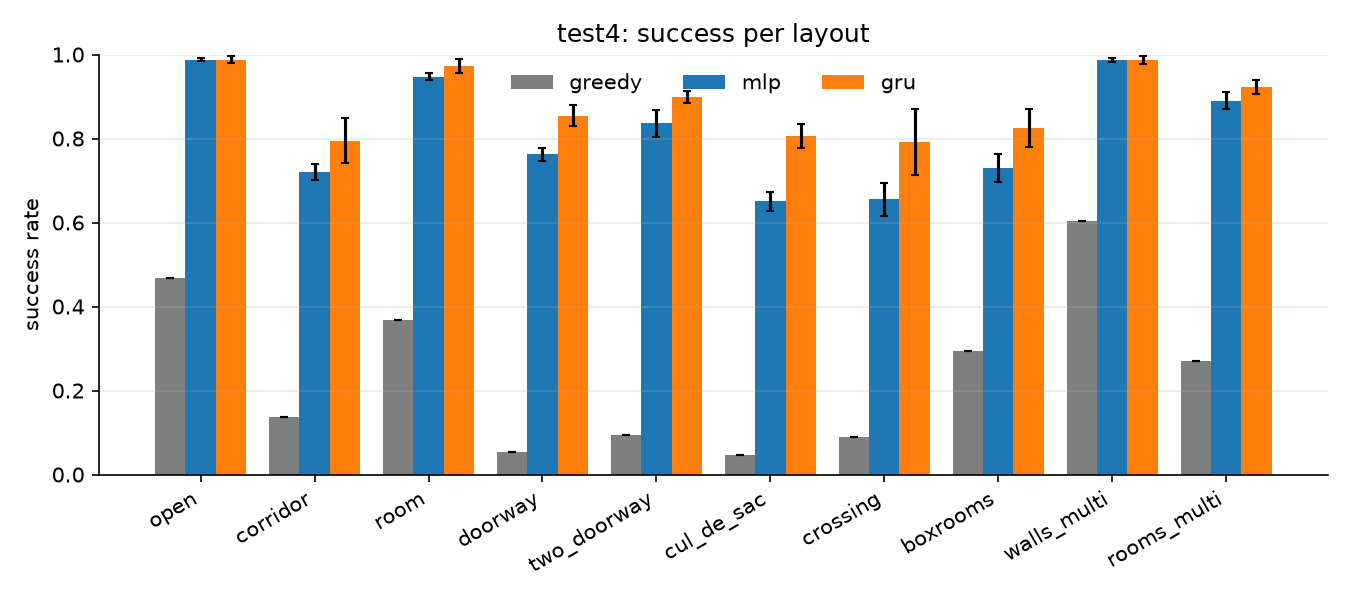
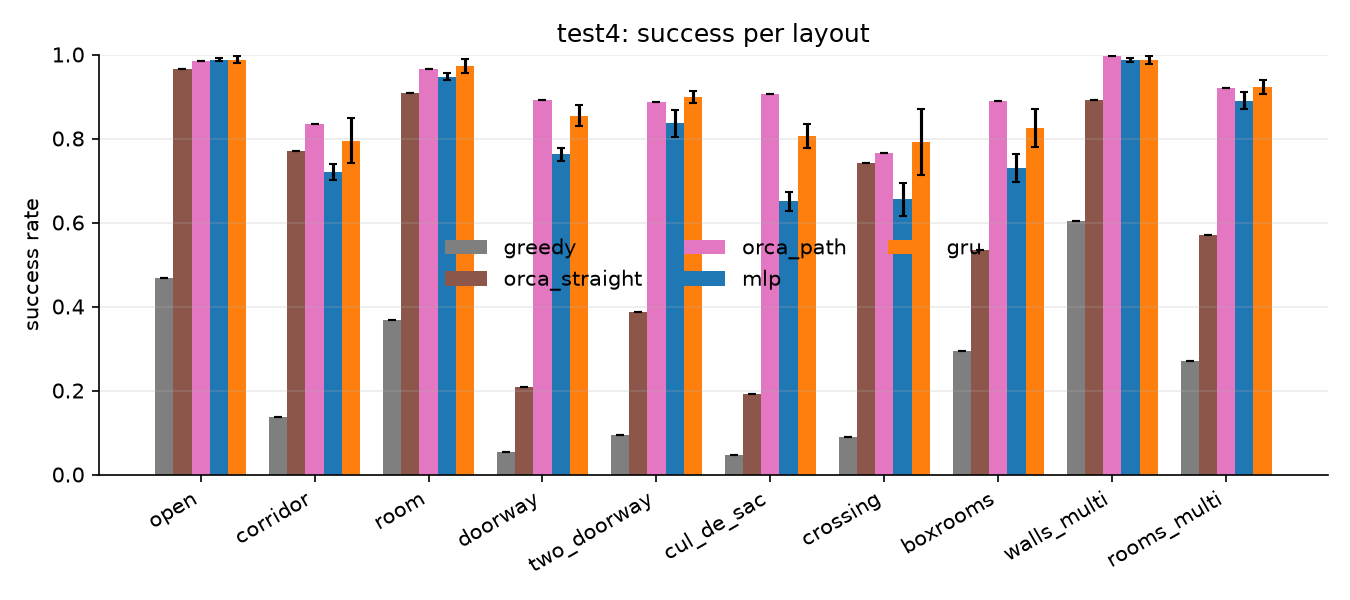
ORCA baseline: orca_straight / orca_path columns in E2 (and E3)

Changed region(s): [[0.1244, 0.09, 0.9333, 0.81]]

diff --git a/policy/results/e3/table_e3_mixed.md b/policy/results/e3/table_e3_mixed.md
@@ -1,49 +1,49 @@
 # E3: test_mixed
 
-**Success rate** (`test_mixed`, mean ± std over seeds; runs: greedy 1, e2_gru 5, e3_timeout 3, e3_geo 3, e3_both 3)
+**Success rate** (`test_mixed`, mean ± std over seeds; runs: greedy 1, orca_straight 1, orca_path 1, e2_gru 5, e3_timeout 3, e3_geo 3, e3_both 3)
 
-| layout | greedy | e2_gru | e3_timeout | e3_geo | e3_both |
-|---|---|---|---|---|---|
-| open | 0.457 | 0.988 ± 0.006 | 0.993 ± 0.002 | 0.996 ± 0.003 | 0.992 ± 0.003 |
-| corridor | 0.181 | 0.790 ± 0.043 | 0.831 ± 0.012 | 0.804 ± 0.010 | 0.815 ± 0.013 |
-| room | 0.362 | 0.936 ± 0.022 | 0.961 ± 0.006 | 0.960 ± 0.008 | 0.959 ± 0.008 |
-| doorway | 0.046 | 0.808 ± 0.031 | 0.817 ± 0.024 | 0.827 ± 0.003 | 0.833 ± 0.008 |
-| two_doorway | 0.079 | 0.855 ± 0.024 | 0.873 ± 0.027 | 0.884 ± 0.009 | 0.873 ± 0.016 |
-| cul_de_sac | 0.062 | 0.799 ± 0.019 | 0.809 ± 0.016 | 0.821 ± 0.033 | 0.805 ± 0.018 |
-| crossing | 0.091 | 0.749 ± 0.072 | 0.807 ± 0.048 | 0.808 ± 0.046 | 0.794 ± 0.056 |
-| boxrooms | 0.270 | 0.849 ± 0.047 | 0.872 ± 0.026 | 0.872 ± 0.027 | 0.882 ± 0.008 |
-| walls_multi | 0.612 | 0.974 ± 0.020 | 0.983 ± 0.004 | 0.981 ± 0.002 | 0.977 ± 0.003 |
-| rooms_multi | 0.299 | 0.923 ± 0.040 | 0.934 ± 0.006 | 0.918 ± 0.013 | 0.944 ± 0.016 |
-| **overall** | 0.246 | 0.867 ± 0.029 | 0.888 ± 0.015 | 0.887 ± 0.010 | 0.887 ± 0.013 |
+| layout | greedy | orca_straight | orca_path | e2_gru | e3_timeout | e3_geo | e3_both |
+|---|---|---|---|---|---|---|---|
+| open | 0.457 | 0.956 | 0.958 | 0.988 ± 0.006 | 0.993 ± 0.002 | 0.996 ± 0.003 | 0.992 ± 0.003 |
+| corridor | 0.181 | 0.725 | 0.845 | 0.790 ± 0.043 | 0.831 ± 0.012 | 0.804 ± 0.010 | 0.815 ± 0.013 |
+| room | 0.362 | 0.904 | 0.921 | 0.936 ± 0.022 | 0.961 ± 0.006 | 0.960 ± 0.008 | 0.959 ± 0.008 |
+| doorway | 0.046 | 0.216 | 0.873 | 0.808 ± 0.031 | 0.817 ± 0.024 | 0.827 ± 0.003 | 0.833 ± 0.008 |
+| two_doorway | 0.079 | 0.356 | 0.895 | 0.855 ± 0.024 | 0.873 ± 0.027 | 0.884 ± 0.009 | 0.873 ± 0.016 |
+| cul_de_sac | 0.062 | 0.212 | 0.912 | 0.799 ± 0.019 | 0.809 ± 0.016 | 0.821 ± 0.033 | 0.805 ± 0.018 |
+| crossing | 0.091 | 0.651 | 0.682 | 0.749 ± 0.072 | 0.807 ± 0.048 | 0.808 ± 0.046 | 0.794 ± 0.056 |
+| boxrooms | 0.270 | 0.545 | 0.872 | 0.849 ± 0.047 | 0.872 ± 0.026 | 0.872 ± 0.027 | 0.882 ± 0.008 |
+| walls_multi | 0.612 | 0.875 | 0.981 | 0.974 ± 0.020 | 0.983 ± 0.004 | 0.981 ± 0.002 | 0.977 ± 0.003 |
+| rooms_multi | 0.299 | 0.555 | 0.909 | 0.923 ± 0.040 | 0.934 ± 0.006 | 0.918 ± 0.013 | 0.944 ± 0.016 |
+| **overall** | 0.246 | 0.599 | 0.885 | 0.867 ± 0.029 | 0.888 ± 0.015 | 0.887 ± 0.010 | 0.887 ± 0.013 |
 
-**Collision rate** (`test_mixed`, mean ± std over seeds; runs: greedy 1, e2_gru 5, e3_timeout 3, e3_geo 3, e3_both 3)
+**Collision rate** (`test_mixed`, mean ± std over seeds; runs: greedy 1, orca_straight 1, orca_path 1, e2_gru 5, e3_timeout 3, e3_geo 3, e3_both 3)
 
-| layout | greedy | e2_gru | e3_timeout | e3_geo | e3_both |
-|---|---|---|---|---|---|
-| open | 0.543 | 0.010 ± 0.007 | 0.005 ± 0.003 | 0.004 ± 0.003 | 0.008 ± 0.003 |
-| corridor | 0.819 | 0.169 ± 0.047 | 0.147 ± 0.014 | 0.142 ± 0.016 | 0.154 ± 0.003 |
-| room | 0.638 | 0.060 ± 0.021 | 0.034 ± 0.011 | 0.038 ± 0.007 | 0.039 ± 0.007 |
-| doorway | 0.954 | 0.116 ± 0.040 | 0.087 ± 0.026 | 0.088 ± 0.003 | 0.114 ± 0.006 |
-| two_doorway | 0.921 | 0.108 ± 0.025 | 0.087 ± 0.030 | 0.078 ± 0.010 | 0.098 ± 0.020 |
-| cul_de_sac | 0.938 | 0.096 ± 0.028 | 0.094 ± 0.050 | 0.070 ± 0.028 | 0.096 ± 0.019 |
-| crossing | 0.909 | 0.201 ± 0.056 | 0.155 ± 0.065 | 0.147 ± 0.030 | 0.186 ± 0.052 |
-| boxrooms | 0.730 | 0.111 ± 0.042 | 0.088 ± 0.027 | 0.096 ± 0.011 | 0.092 ± 0.014 |
-| walls_multi | 0.388 | 0.026 ± 0.020 | 0.016 ± 0.004 | 0.019 ± 0.002 | 0.018 ± 0.003 |
-| rooms_multi | 0.701 | 0.066 ± 0.040 | 0.055 ± 0.005 | 0.068 ± 0.009 | 0.046 ± 0.015 |
-| **overall** | 0.754 | 0.096 ± 0.028 | 0.077 ± 0.023 | 0.075 ± 0.003 | 0.085 ± 0.012 |
+| layout | greedy | orca_straight | orca_path | e2_gru | e3_timeout | e3_geo | e3_both |
+|---|---|---|---|---|---|---|---|
+| open | 0.543 | 0.019 | 0.027 | 0.010 ± 0.007 | 0.005 ± 0.003 | 0.004 ± 0.003 | 0.008 ± 0.003 |
+| corridor | 0.819 | 0.121 | 0.143 | 0.169 ± 0.047 | 0.147 ± 0.014 | 0.142 ± 0.016 | 0.154 ± 0.003 |
+| room | 0.638 | 0.038 | 0.044 | 0.060 ± 0.021 | 0.034 ± 0.011 | 0.038 ± 0.007 | 0.039 ± 0.007 |
+| doorway | 0.954 | 0.588 | 0.120 | 0.116 ± 0.040 | 0.087 ± 0.026 | 0.088 ± 0.003 | 0.114 ± 0.006 |
+| two_doorway | 0.921 | 0.400 | 0.086 | 0.108 ± 0.025 | 0.087 ± 0.030 | 0.078 ± 0.010 | 0.098 ± 0.020 |
+| cul_de_sac | 0.938 | 0.452 | 0.082 | 0.096 ± 0.028 | 0.094 ± 0.050 | 0.070 ± 0.028 | 0.096 ± 0.019 |
+| crossing | 0.909 | 0.206 | 0.266 | 0.201 ± 0.056 | 0.155 ± 0.065 | 0.147 ± 0.030 | 0.186 ± 0.052 |
+| boxrooms | 0.730 | 0.383 | 0.128 | 0.111 ± 0.042 | 0.088 ± 0.027 | 0.096 ± 0.011 | 0.092 ± 0.014 |
+| walls_multi | 0.388 | 0.119 | 0.019 | 0.026 ± 0.020 | 0.016 ± 0.004 | 0.019 ± 0.002 | 0.018 ± 0.003 |
+| rooms_multi | 0.701 | 0.418 | 0.086 | 0.066 ± 0.040 | 0.055 ± 0.005 | 0.068 ± 0.009 | 0.046 ± 0.015 |
+| **overall** | 0.754 | 0.274 | 0.100 | 0.096 ± 0.028 | 0.077 ± 0.023 | 0.075 ± 0.003 | 0.085 ± 0.012 |
 
-**Timeout rate** (`test_mixed`, mean ± std over seeds; runs: greedy 1, e2_gru 5, e3_timeout 3, e3_geo 3, e3_both 3)
+**Timeout rate** (`test_mixed`, mean ± std over seeds; runs: greedy 1, orca_straight 1, orca_path 1, e2_gru 5, e3_timeout 3, e3_geo 3, e3_both 3)
 
-| layout | greedy | e2_gru | e3_timeout | e3_geo | e3_both |
-|---|---|---|---|---|---|
-| open | 0.000 | 0.002 ± 0.002 | 0.002 ± 0.001 | 0.000 ± 0.000 | 0.000 ± 0.000 |
-| corridor | 0.000 | 0.041 ± 0.020 | 0.023 ± 0.008 | 0.053 ± 0.011 | 0.031 ± 0.013 |
-| room | 0.000 | 0.003 ± 0.003 | 0.005 ± 0.005 | 0.001 ± 0.001 | 0.001 ± 0.001 |
-| doorway | 0.000 | 0.076 ± 0.018 | 0.096 ± 0.017 | 0.085 ± 0.006 | 0.053 ± 0.005 |
-| two_doorway | 0.000 | 0.037 ± 0.008 | 0.040 ± 0.004 | 0.038 ± 0.012 | 0.029 ± 0.008 |
-| cul_de_sac | 0.000 | 0.106 ± 0.022 | 0.098 ± 0.036 | 0.109 ± 0.019 | 0.099 ± 0.002 |
-| crossing | 0.000 | 0.050 ± 0.031 | 0.037 ± 0.021 | 0.045 ± 0.017 | 0.020 ± 0.005 |
-| boxrooms | 0.000 | 0.040 ± 0.013 | 0.040 ± 0.004 | 0.032 ± 0.017 | 0.025 ± 0.011 |
-| walls_multi | 0.000 | 0.000 ± 0.000 | 0.001 ± 0.001 | 0.000 ± 0.000 | 0.005 ± 0.000 |
-| rooms_multi | 0.000 | 0.011 ± 0.004 | 0.010 ± 0.002 | 0.014 ± 0.005 | 0.011 ± 0.001 |
-| **overall** | 0.000 | 0.037 ± 0.009 | 0.035 ± 0.007 | 0.038 ± 0.007 | 0.027 ± 0.002 |
+| layout | greedy | orca_straight | orca_path | e2_gru | e3_timeout | e3_geo | e3_both |
+|---|---|---|---|---|---|---|---|
+| open | 0.000 | 0.025 | 0.015 | 0.002 ± 0.002 | 0.002 ± 0.001 | 0.000 ± 0.000 | 0.000 ± 0.000 |
+| corridor | 0.000 | 0.154 | 0.012 | 0.041 ± 0.020 | 0.023 ± 0.008 | 0.053 ± 0.011 | 0.031 ± 0.013 |
+| room | 0.000 | 0.059 | 0.035 | 0.003 ± 0.003 | 0.005 ± 0.005 | 0.001 ± 0.001 | 0.001 ± 0.001 |
+| doorway | 0.000 | 0.196 | 0.007 | 0.076 ± 0.018 | 0.096 ± 0.017 | 0.085 ± 0.006 | 0.053 ± 0.005 |
+| two_doorway | 0.000 | 0.245 | 0.019 | 0.037 ± 0.008 | 0.040 ± 0.004 | 0.038 ± 0.012 | 0.029 ± 0.008 |
+| cul_de_sac | 0.000 | 0.336 | 0.006 | 0.106 ± 0.022 | 0.098 ± 0.036 | 0.109 ± 0.019 | 0.099 ± 0.002 |
+| crossing | 0.000 | 0.143 | 0.051 | 0.050 ± 0.031 | 0.037 ± 0.021 | 0.045 ± 0.017 | 0.020 ± 0.005 |
+| boxrooms | 0.000 | 0.072 | 0.000 | 0.040 ± 0.013 | 0.040 ± 0.004 | 0.032 ± 0.017 | 0.025 ± 0.011 |
+| walls_multi | 0.000 | 0.006 | 0.000 | 0.000 ± 0.000 | 0.001 ± 0.001 | 0.000 ± 0.000 | 0.005 ± 0.000 |
+| rooms_multi | 0.000 | 0.027 | 0.005 | 0.011 ± 0.004 | 0.010 ± 0.002 | 0.014 ± 0.005 | 0.011 ± 0.001 |
+| **overall** | 0.000 | 0.126 | 0.015 | 0.037 ± 0.009 | 0.035 ± 0.007 | 0.038 ± 0.007 | 0.027 ± 0.002 |

diff --git a/policy/results/e3/table_e3.md b/policy/results/e3/table_e3.md
@@ -1,49 +1,49 @@
 # E3: test4
 
-**Success rate** (`test4`, mean ± std over seeds; runs: greedy 1, e2_gru 5, e3_timeout 3, e3_geo 3, e3_both 3)
+**Success rate** (`test4`, mean ± std over seeds; runs: greedy 1, orca_straight 1, orca_path 1, e2_gru 5, e3_timeout 3, e3_geo 3, e3_both 3)
 
-| layout | greedy | e2_gru | e3_timeout | e3_geo | e3_both |
-|---|---|---|---|---|---|
-| open | 0.468 | 0.988 ± 0.009 | 0.992 ± 0.008 | 0.998 ± 0.002 | 0.994 ± 0.003 |
-| corridor | 0.138 | 0.795 ± 0.054 | 0.821 ± 0.022 | 0.827 ± 0.010 | 0.802 ± 0.011 |
-| room | 0.367 | 0.972 ± 0.017 | 0.974 ± 0.008 | 0.980 ± 0.004 | 0.979 ± 0.012 |
-| doorway | 0.052 | 0.854 ± 0.025 | 0.871 ± 0.012 | 0.868 ± 0.019 | 0.878 ± 0.025 |
-| two_doorway | 0.095 | 0.898 ± 0.015 | 0.896 ± 0.024 | 0.899 ± 0.008 | 0.902 ± 0.020 |
-| cul_de_sac | 0.048 | 0.806 ± 0.028 | 0.792 ± 0.037 | 0.843 ± 0.037 | 0.808 ± 0.029 |
-| crossing | 0.090 | 0.791 ± 0.078 | 0.833 ± 0.024 | 0.815 ± 0.013 | 0.799 ± 0.032 |
-| boxrooms | 0.295 | 0.825 ± 0.045 | 0.829 ± 0.024 | 0.856 ± 0.025 | 0.842 ± 0.026 |
-| walls_multi | 0.603 | 0.987 ± 0.009 | 0.989 ± 0.005 | 0.989 ± 0.002 | 0.987 ± 0.004 |
-| rooms_multi | 0.270 | 0.923 ± 0.017 | 0.941 ± 0.012 | 0.940 ± 0.009 | 0.937 ± 0.016 |
-| **overall** | 0.242 | 0.884 ± 0.027 | 0.894 ± 0.015 | 0.902 ± 0.011 | 0.893 ± 0.013 |
+| layout | greedy | orca_straight | orca_path | e2_gru | e3_timeout | e3_geo | e3_both |
+|---|---|---|---|---|---|---|---|
+| open | 0.468 | 0.965 | 0.985 | 0.988 ± 0.009 | 0.992 ± 0.008 | 0.998 ± 0.002 | 0.994 ± 0.003 |
+| corridor | 0.138 | 0.770 | 0.835 | 0.795 ± 0.054 | 0.821 ± 0.022 | 0.827 ± 0.010 | 0.802 ± 0.011 |
+| room | 0.367 | 0.907 | 0.965 | 0.972 ± 0.017 | 0.974 ± 0.008 | 0.980 ± 0.004 | 0.979 ± 0.012 |
+| doorway | 0.052 | 0.207 | 0.892 | 0.854 ± 0.025 | 0.871 ± 0.012 | 0.868 ± 0.019 | 0.878 ± 0.025 |
+| two_doorway | 0.095 | 0.388 | 0.887 | 0.898 ± 0.015 | 0.896 ± 0.024 | 0.899 ± 0.008 | 0.902 ± 0.020 |
+| cul_de_sac | 0.048 | 0.193 | 0.905 | 0.806 ± 0.028 | 0.792 ± 0.037 | 0.843 ± 0.037 | 0.808 ± 0.029 |
+| crossing | 0.090 | 0.743 | 0.765 | 0.791 ± 0.078 | 0.833 ± 0.024 | 0.815 ± 0.013 | 0.799 ± 0.032 |
+| boxrooms | 0.295 | 0.535 | 0.890 | 0.825 ± 0.045 | 0.829 ± 0.024 | 0.856 ± 0.025 | 0.842 ± 0.026 |
+| walls_multi | 0.603 | 0.892 | 0.998 | 0.987 ± 0.009 | 0.989 ± 0.005 | 0.989 ± 0.002 | 0.987 ± 0.004 |
+| rooms_multi | 0.270 | 0.570 | 0.920 | 0.923 ± 0.017 | 0.941 ± 0.012 | 0.940 ± 0.009 | 0.937 ± 0.016 |
+| **overall** | 0.242 | 0.617 | 0.904 | 0.884 ± 0.027 | 0.894 ± 0.015 | 0.902 ± 0.011 | 0.893 ± 0.013 |
 
-**Collision rate** (`test4`, mean ± std over seeds; runs: greedy 1, e2_gru 5, e3_timeout 3, e3_geo 3, e3_both 3)
+**Collision rate** (`test4`, mean ± std over seeds; runs: greedy 1, orca_straight 1, orca_path 1, e2_gru 5, e3_timeout 3, e3_geo 3, e3_both 3)
 
-| layout | greedy | e2_gru | e3_timeout | e3_geo | e3_both |
-|---|---|---|---|---|---|
-| open | 0.532 | 0.012 ± 0.009 | 0.007 ± 0.009 | 0.002 ± 0.002 | 0.006 ± 0.003 |
-| corridor | 0.863 | 0.155 ± 0.046 | 0.146 ± 0.033 | 0.122 ± 0.004 | 0.161 ± 0.020 |
-| room | 0.632 | 0.025 ± 0.016 | 0.022 ± 0.010 | 0.019 ± 0.003 | 0.018 ± 0.009 |
-| doorway | 0.948 | 0.088 ± 0.032 | 0.073 ± 0.022 | 0.080 ± 0.020 | 0.089 ± 0.028 |
-| two_doorway | 0.905 | 0.067 ± 0.014 | 0.067 ± 0.025 | 0.062 ± 0.009 | 0.075 ± 0.029 |
-| cul_de_sac | 0.953 | 0.097 ± 0.044 | 0.097 ± 0.053 | 0.062 ± 0.015 | 0.096 ± 0.028 |
-| crossing | 0.910 | 0.161 ± 0.067 | 0.132 ± 0.034 | 0.128 ± 0.006 | 0.165 ± 0.024 |
-| boxrooms | 0.705 | 0.131 ± 0.039 | 0.137 ± 0.025 | 0.113 ± 0.019 | 0.129 ± 0.014 |
-| walls_multi | 0.398 | 0.011 ± 0.008 | 0.008 ± 0.007 | 0.008 ± 0.003 | 0.010 ± 0.004 |
-| rooms_multi | 0.730 | 0.050 ± 0.019 | 0.023 ± 0.008 | 0.035 ± 0.009 | 0.032 ± 0.015 |
-| **overall** | 0.757 | 0.080 ± 0.026 | 0.071 ± 0.021 | 0.063 ± 0.007 | 0.078 ± 0.013 |
+| layout | greedy | orca_straight | orca_path | e2_gru | e3_timeout | e3_geo | e3_both |
+|---|---|---|---|---|---|---|---|
+| open | 0.532 | 0.020 | 0.010 | 0.012 ± 0.009 | 0.007 ± 0.009 | 0.002 ± 0.002 | 0.006 ± 0.003 |
+| corridor | 0.863 | 0.072 | 0.133 | 0.155 ± 0.046 | 0.146 ± 0.033 | 0.122 ± 0.004 | 0.161 ± 0.020 |
+| room | 0.632 | 0.040 | 0.013 | 0.025 ± 0.016 | 0.022 ± 0.010 | 0.019 ± 0.003 | 0.018 ± 0.009 |
+| doorway | 0.948 | 0.600 | 0.107 | 0.088 ± 0.032 | 0.073 ± 0.022 | 0.080 ± 0.020 | 0.089 ± 0.028 |
+| two_doorway | 0.905 | 0.395 | 0.083 | 0.067 ± 0.014 | 0.067 ± 0.025 | 0.062 ± 0.009 | 0.075 ± 0.029 |
+| cul_de_sac | 0.953 | 0.472 | 0.080 | 0.097 ± 0.044 | 0.097 ± 0.053 | 0.062 ± 0.015 | 0.096 ± 0.028 |
+| crossing | 0.910 | 0.120 | 0.193 | 0.161 ± 0.067 | 0.132 ± 0.034 | 0.128 ± 0.006 | 0.165 ± 0.024 |
+| boxrooms | 0.705 | 0.360 | 0.098 | 0.131 ± 0.039 | 0.137 ± 0.025 | 0.113 ± 0.019 | 0.129 ± 0.014 |
+| walls_multi | 0.398 | 0.095 | 0.003 | 0.011 ± 0.008 | 0.008 ± 0.007 | 0.008 ± 0.003 | 0.010 ± 0.004 |
+| rooms_multi | 0.730 | 0.407 | 0.075 | 0.050 ± 0.019 | 0.023 ± 0.008 | 0.035 ± 0.009 | 0.032 ± 0.015 |
+| **overall** | 0.757 | 0.258 | 0.079 | 0.080 ± 0.026 | 0.071 ± 0.021 | 0.063 ± 0.007 | 0.078 ± 0.013 |
 
-**Timeout rate** (`test4`, mean ± std over seeds; runs: greedy 1, e2_gru 5, e3_timeout 3, e3_geo 3, e3_both 3)
+**Timeout rate** (`test4`, mean ± std over seeds; runs: greedy 1, orca_straight 1, orca_path 1, e2_gru 5, e3_timeout 3, e3_geo 3, e3_both 3)
 
-| layout | greedy | e2_gru | e3_timeout | e3_geo | e3_both |
-|---|---|---|---|---|---|
-| open | 0.000 | 0.000 ± 0.000 | 0.002 ± 0.002 | 0.000 ± 0.000 | 0.000 ± 0.000 |
-| corridor | 0.000 | 0.051 ± 0.022 | 0.033 ± 0.011 | 0.052 ± 0.010 | 0.037 ± 0.012 |
-| room | 0.000 | 0.004 ± 0.002 | 0.004 ± 0.002 | 0.001 ± 0.001 | 0.003 ± 0.004 |
-| doorway | 0.000 | 0.057 ± 0.014 | 0.056 ± 0.010 | 0.052 ± 0.002 | 0.033 ± 0.005 |
-| two_doorway | 0.000 | 0.034 ± 0.007 | 0.037 ± 0.006 | 0.038 ± 0.001 | 0.023 ± 0.009 |
-| cul_de_sac | 0.000 | 0.097 ± 0.024 | 0.111 ± 0.019 | 0.094 ± 0.032 | 0.096 ± 0.004 |
-| crossing | 0.000 | 0.047 ± 0.021 | 0.036 ± 0.016 | 0.057 ± 0.011 | 0.036 ± 0.008 |
-| boxrooms | 0.000 | 0.043 ± 0.019 | 0.034 ± 0.002 | 0.030 ± 0.015 | 0.029 ± 0.012 |
-| walls_multi | 0.000 | 0.002 ± 0.001 | 0.003 ± 0.003 | 0.003 ± 0.002 | 0.003 ± 0.000 |
-| rooms_multi | 0.000 | 0.027 ± 0.004 | 0.036 ± 0.010 | 0.025 ± 0.004 | 0.032 ± 0.008 |
-| **overall** | 0.000 | 0.036 ± 0.008 | 0.035 ± 0.006 | 0.035 ± 0.005 | 0.029 ± 0.001 |
+| layout | greedy | orca_straight | orca_path | e2_gru | e3_timeout | e3_geo | e3_both |
+|---|---|---|---|---|---|---|---|
+| open | 0.000 | 0.015 | 0.005 | 0.000 ± 0.000 | 0.002 ± 0.002 | 0.000 ± 0.000 | 0.000 ± 0.000 |
+| corridor | 0.000 | 0.158 | 0.033 | 0.051 ± 0.022 | 0.033 ± 0.011 | 0.052 ± 0.010 | 0.037 ± 0.012 |
+| room | 0.000 | 0.052 | 0.022 | 0.004 ± 0.002 | 0.004 ± 0.002 | 0.001 ± 0.001 | 0.003 ± 0.004 |
+| doorway | 0.000 | 0.193 | 0.000 | 0.057 ± 0.014 | 0.056 ± 0.010 | 0.052 ± 0.002 | 0.033 ± 0.005 |
+| two_doorway | 0.000 | 0.217 | 0.030 | 0.034 ± 0.007 | 0.037 ± 0.006 | 0.038 ± 0.001 | 0.023 ± 0.009 |
+| cul_de_sac | 0.000 | 0.335 | 0.015 | 0.097 ± 0.024 | 0.111 ± 0.019 | 0.094 ± 0.032 | 0.096 ± 0.004 |
+| crossing | 0.000 | 0.138 | 0.043 | 0.047 ± 0.021 | 0.036 ± 0.016 | 0.057 ± 0.011 | 0.036 ± 0.008 |
+| boxrooms | 0.000 | 0.105 | 0.013 | 0.043 ± 0.019 | 0.034 ± 0.002 | 0.030 ± 0.015 | 0.029 ± 0.012 |
+| walls_multi | 0.000 | 0.013 | 0.000 | 0.002 ± 0.001 | 0.003 ± 0.003 | 0.003 ± 0.002 | 0.003 ± 0.000 |
+| rooms_multi | 0.000 | 0.022 | 0.005 | 0.027 ± 0.004 | 0.036 ± 0.010 | 0.025 ± 0.004 | 0.032 ± 0.008 |
+| **overall** | 0.000 | 0.125 | 0.017 | 0.036 ± 0.008 | 0.035 ± 0.006 | 0.035 ± 0.005 | 0.029 ± 0.001 |

diff --git a/policy/results/e2/table_e2_mixed.md b/policy/results/e2/table_e2_mixed.md
@@ -1,33 +1,33 @@
 # E2: test_mixed
 
-**Success rate** (`test_mixed`, mean ± std over seeds; runs: greedy 1, mlp 5, gru 5)
+**Success rate** (`test_mixed`, mean ± std over seeds; runs: greedy 1, orca_straight 1, orca_path 1, mlp 5, gru 5)
 
-| layout | greedy | mlp | gru |
-|---|---|---|---|
-| open | 0.457 | 0.986 ± 0.006 | 0.988 ± 0.006 |
-| corridor | 0.181 | 0.729 ± 0.021 | 0.790 ± 0.043 |
-| room | 0.362 | 0.925 ± 0.010 | 0.936 ± 0.022 |
-| doorway | 0.046 | 0.707 ± 0.022 | 0.808 ± 0.031 |
-| two_doorway | 0.079 | 0.797 ± 0.021 | 0.855 ± 0.024 |
-| cul_de_sac | 0.062 | 0.642 ± 0.031 | 0.799 ± 0.019 |
-| crossing | 0.091 | 0.608 ± 0.042 | 0.749 ± 0.072 |
-| boxrooms | 0.270 | 0.763 ± 0.022 | 0.849 ± 0.047 |
-| walls_multi | 0.612 | 0.963 ± 0.007 | 0.974 ± 0.020 |
-| rooms_multi | 0.299 | 0.882 ± 0.021 | 0.923 ± 0.040 |
-| **overall** | 0.246 | 0.800 ± 0.011 | 0.867 ± 0.029 |
+| layout | greedy | orca_straight | orca_path | mlp | gru |
+|---|---|---|---|---|---|
+| open | 0.457 | 0.956 | 0.958 | 0.986 ± 0.006 | 0.988 ± 0.006 |
+| corridor | 0.181 | 0.725 | 0.845 | 0.729 ± 0.021 | 0.790 ± 0.043 |
+| room | 0.362 | 0.904 | 0.921 | 0.925 ± 0.010 | 0.936 ± 0.022 |
+| doorway | 0.046 | 0.216 | 0.873 | 0.707 ± 0.022 | 0.808 ± 0.031 |
+| two_doorway | 0.079 | 0.356 | 0.895 | 0.797 ± 0.021 | 0.855 ± 0.024 |
+| cul_de_sac | 0.062 | 0.212 | 0.912 | 0.642 ± 0.031 | 0.799 ± 0.019 |
+| crossing | 0.091 | 0.651 | 0.682 | 0.608 ± 0.042 | 0.749 ± 0.072 |
+| boxrooms | 0.270 | 0.545 | 0.872 | 0.763 ± 0.022 | 0.849 ± 0.047 |
+| walls_multi | 0.612 | 0.875 | 0.981 | 0.963 ± 0.007 | 0.974 ± 0.020 |
+| rooms_multi | 0.299 | 0.555 | 0.909 | 0.882 ± 0.021 | 0.923 ± 0.040 |
+| **overall** | 0.246 | 0.599 | 0.885 | 0.800 ± 0.011 | 0.867 ± 0.029 |
 
-**Collision rate** (`test_mixed`, mean ± std over seeds; runs: greedy 1, mlp 5, gru 5)
+**Collision rate** (`test_mixed`, mean ± std over seeds; runs: greedy 1, orca_straight 1, orca_path 1, mlp 5, gru 5)
 
-| layout | greedy | mlp | gru |
-|---|---|---|---|
-| open | 0.543 | 0.011 ± 0.006 | 0.010 ± 0.007 |
-| corridor | 0.819 | 0.213 ± 0.029 | 0.169 ± 0.047 |
-| room | 0.638 | 0.056 ± 0.016 | 0.060 ± 0.021 |
-| doorway | 0.954 | 0.101 ± 0.022 | 0.116 ± 0.040 |
-| two_doorway | 0.921 | 0.101 ± 0.016 | 0.108 ± 0.025 |
-| cul_de_sac | 0.938 | 0.125 ± 0.033 | 0.096 ± 0.028 |
-| crossing | 0.909 | 0.256 ± 0.065 | 0.201 ± 0.056 |
-| boxrooms | 0.730 | 0.133 ± 0.026 | 0.111 ± 0.042 |
-| walls_multi | 0.388 | 0.026 ± 0.008 | 0.026 ± 0.020 |
-| rooms_multi | 0.701 | 0.066 ± 0.018 | 0.066 ± 0.040 |
-| **overall** | 0.754 | 0.109 ± 0.020 | 0.096 ± 0.028 |
+| layout | greedy | orca_straight | orca_path | mlp | gru |
+|---|---|---|---|---|---|
+| open | 0.543 | 0.019 | 0.027 | 0.011 ± 0.006 | 0.010 ± 0.007 |
+| corridor | 0.819 | 0.121 | 0.143 | 0.213 ± 0.029 | 0.169 ± 0.047 |
+| room | 0.638 | 0.038 | 0.044 | 0.056 ± 0.016 | 0.060 ± 0.021 |
+| doorway | 0.954 | 0.588 | 0.120 | 0.101 ± 0.022 | 0.116 ± 0.040 |
+| two_doorway | 0.921 | 0.400 | 0.086 | 0.101 ± 0.016 | 0.108 ± 0.025 |
+| cul_de_sac | 0.938 | 0.452 | 0.082 | 0.125 ± 0.033 | 0.096 ± 0.028 |
+| crossing | 0.909 | 0.206 | 0.266 | 0.256 ± 0.065 | 0.201 ± 0.056 |
+| boxrooms | 0.730 | 0.383 | 0.128 | 0.133 ± 0.026 | 0.111 ± 0.042 |
+| walls_multi | 0.388 | 0.119 | 0.019 | 0.026 ± 0.008 | 0.026 ± 0.020 |
+| rooms_multi | 0.701 | 0.418 | 0.086 | 0.066 ± 0.018 | 0.066 ± 0.040 |
+| **overall** | 0.754 | 0.274 | 0.100 | 0.109 ± 0.020 | 0.096 ± 0.028 |

diff --git a/policy/results/e2/table_e2.md b/policy/results/e2/table_e2.md
@@ -1,33 +1,33 @@
 # E2: test4
 
-**Success rate** (`test4`, mean ± std over seeds; runs: greedy 1, mlp 5, gru 5)
+**Success rate** (`test4`, mean ± std over seeds; runs: greedy 1, orca_straight 1, orca_path 1, mlp 5, gru 5)
 
-| layout | greedy | mlp | gru |
-|---|---|---|---|
-| open | 0.468 | 0.988 ± 0.003 | 0.988 ± 0.009 |
-| corridor | 0.138 | 0.720 ± 0.019 | 0.795 ± 0.054 |
-| room | 0.367 | 0.947 ± 0.008 | 0.972 ± 0.017 |
-| doorway | 0.052 | 0.762 ± 0.016 | 0.854 ± 0.025 |
-| two_doorway | 0.095 | 0.837 ± 0.032 | 0.898 ± 0.015 |
-| cul_de_sac | 0.048 | 0.651 ± 0.022 | 0.806 ± 0.028 |
-| crossing | 0.090 | 0.655 ± 0.039 | 0.791 ± 0.078 |
-| boxrooms | 0.295 | 0.730 ± 0.034 | 0.825 ± 0.045 |
-| walls_multi | 0.603 | 0.987 ± 0.005 | 0.987 ± 0.009 |
-| rooms_multi | 0.270 | 0.890 ± 0.021 | 0.923 ± 0.017 |
-| **overall** | 0.242 | 0.817 ± 0.006 | 0.884 ± 0.027 |
+| layout | greedy | orca_straight | orca_path | mlp | gru |
+|---|---|---|---|---|---|
+| open | 0.468 | 0.965 | 0.985 | 0.988 ± 0.003 | 0.988 ± 0.009 |
+| corridor | 0.138 | 0.770 | 0.835 | 0.720 ± 0.019 | 0.795 ± 0.054 |
+| room | 0.367 | 0.907 | 0.965 | 0.947 ± 0.008 | 0.972 ± 0.017 |
+| doorway | 0.052 | 0.207 | 0.892 | 0.762 ± 0.016 | 0.854 ± 0.025 |
+| two_doorway | 0.095 | 0.388 | 0.887 | 0.837 ± 0.032 | 0.898 ± 0.015 |
+| cul_de_sac | 0.048 | 0.193 | 0.905 | 0.651 ± 0.022 | 0.806 ± 0.028 |
+| crossing | 0.090 | 0.743 | 0.765 | 0.655 ± 0.039 | 0.791 ± 0.078 |
+| boxrooms | 0.295 | 0.535 | 0.890 | 0.730 ± 0.034 | 0.825 ± 0.045 |
+| walls_multi | 0.603 | 0.892 | 0.998 | 0.987 ± 0.005 | 0.987 ± 0.009 |
+| rooms_multi | 0.270 | 0.570 | 0.920 | 0.890 ± 0.021 | 0.923 ± 0.017 |
+| **overall** | 0.242 | 0.617 | 0.904 | 0.817 ± 0.006 | 0.884 ± 0.027 |
 
-**Collision rate** (`test4`, mean ± std over seeds; runs: greedy 1, mlp 5, gru 5)
+**Collision rate** (`test4`, mean ± std over seeds; runs: greedy 1, orca_straight 1, orca_path 1, mlp 5, gru 5)
 
-| layout | greedy | mlp | gru |
-|---|---|---|---|
-| open | 0.532 | 0.009 ± 0.004 | 0.012 ± 0.009 |
-| corridor | 0.863 | 0.210 ± 0.034 | 0.155 ± 0.046 |
-| room | 0.632 | 0.032 ± 0.009 | 0.025 ± 0.016 |
-| doorway | 0.948 | 0.085 ± 0.014 | 0.088 ± 0.032 |
-| two_doorway | 0.905 | 0.055 ± 0.025 | 0.067 ± 0.014 |
-| cul_de_sac | 0.953 | 0.112 ± 0.026 | 0.097 ± 0.044 |
-| crossing | 0.910 | 0.194 ± 0.063 | 0.161 ± 0.067 |
-| boxrooms | 0.705 | 0.159 ± 0.029 | 0.131 ± 0.039 |
-| walls_multi | 0.398 | 0.008 ± 0.004 | 0.011 ± 0.008 |
-| rooms_multi | 0.730 | 0.041 ± 0.014 | 0.050 ± 0.019 |
-| **overall** | 0.757 | 0.091 ± 0.016 | 0.080 ± 0.026 |
+| layout | greedy | orca_straight | orca_path | mlp | gru |
+|---|---|---|---|---|---|
+| open | 0.532 | 0.020 | 0.010 | 0.009 ± 0.004 | 0.012 ± 0.009 |
+| corridor | 0.863 | 0.072 | 0.133 | 0.210 ± 0.034 | 0.155 ± 0.046 |
+| room | 0.632 | 0.040 | 0.013 | 0.032 ± 0.009 | 0.025 ± 0.016 |
+| doorway | 0.948 | 0.600 | 0.107 | 0.085 ± 0.014 | 0.088 ± 0.032 |
+| two_doorway | 0.905 | 0.395 | 0.083 | 0.055 ± 0.025 | 0.067 ± 0.014 |
+| cul_de_sac | 0.953 | 0.472 | 0.080 | 0.112 ± 0.026 | 0.097 ± 0.044 |
+| crossing | 0.910 | 0.120 | 0.193 | 0.194 ± 0.063 | 0.161 ± 0.067 |
+| boxrooms | 0.705 | 0.360 | 0.098 | 0.159 ± 0.029 | 0.131 ± 0.039 |
+| walls_multi | 0.398 | 0.095 | 0.003 | 0.008 ± 0.004 | 0.011 ± 0.008 |
+| rooms_multi | 0.730 | 0.407 | 0.075 | 0.041 ± 0.014 | 0.050 ± 0.019 |
+| **overall** | 0.757 | 0.258 | 0.079 | 0.091 ± 0.016 | 0.080 ± 0.026 |
